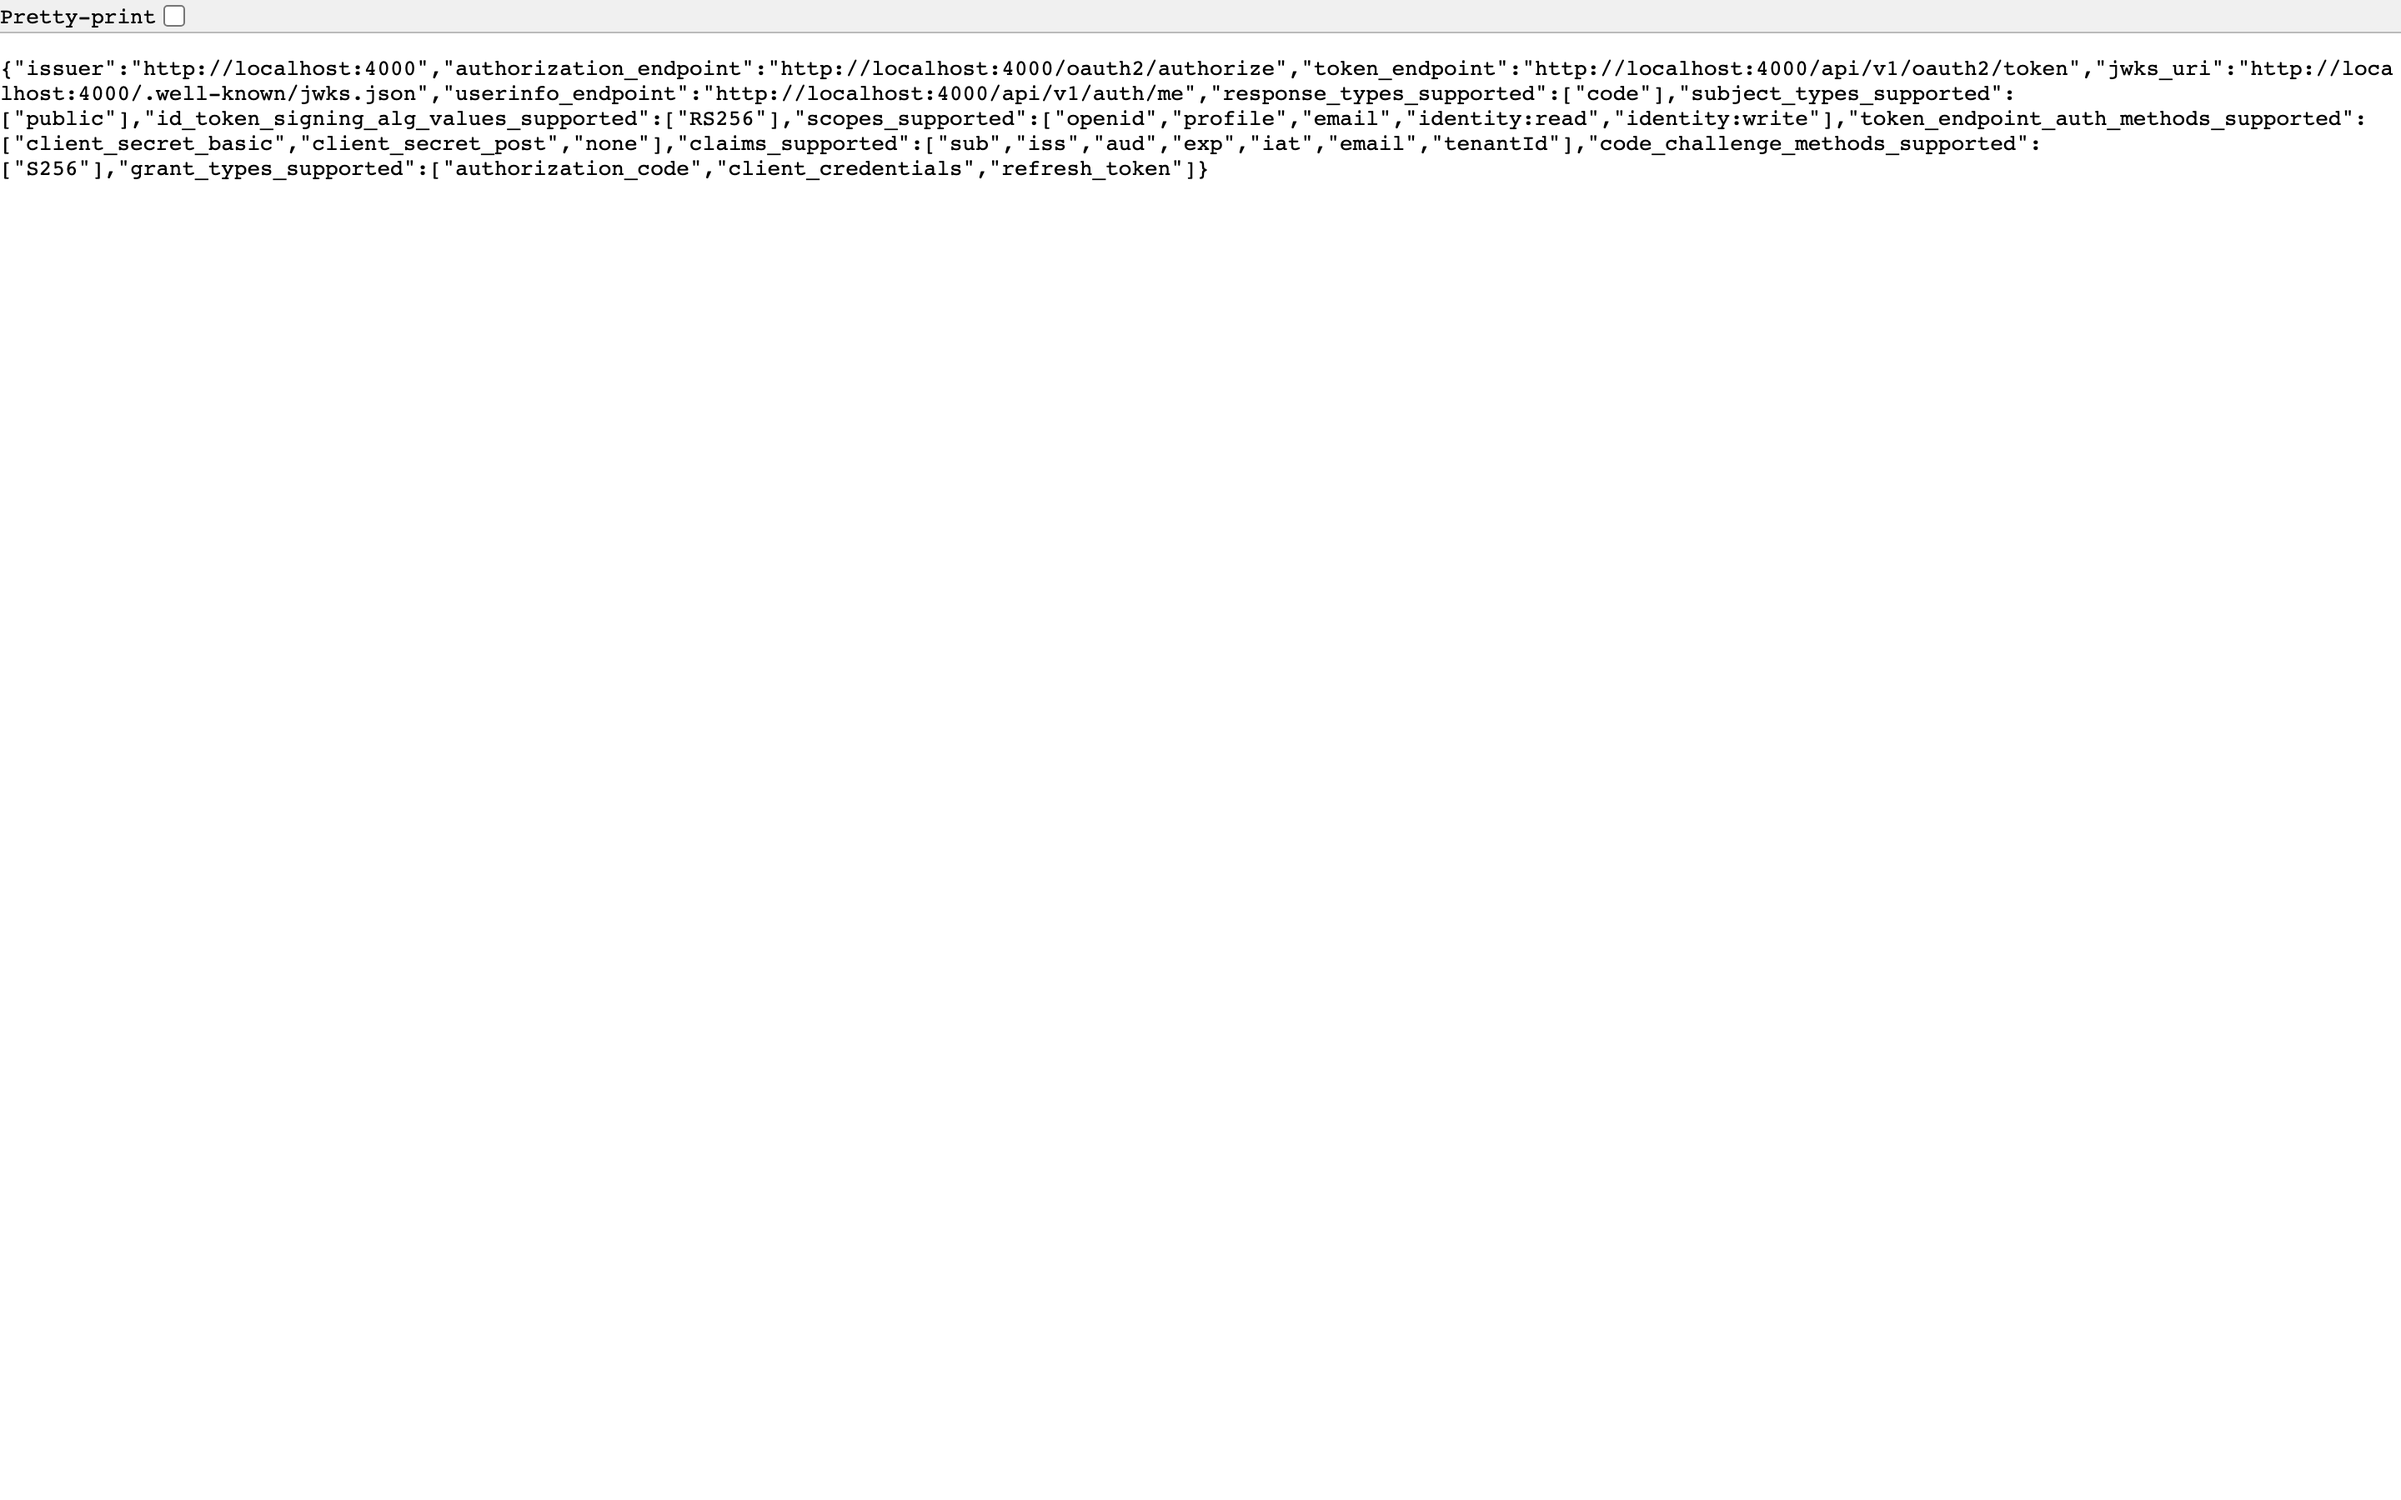
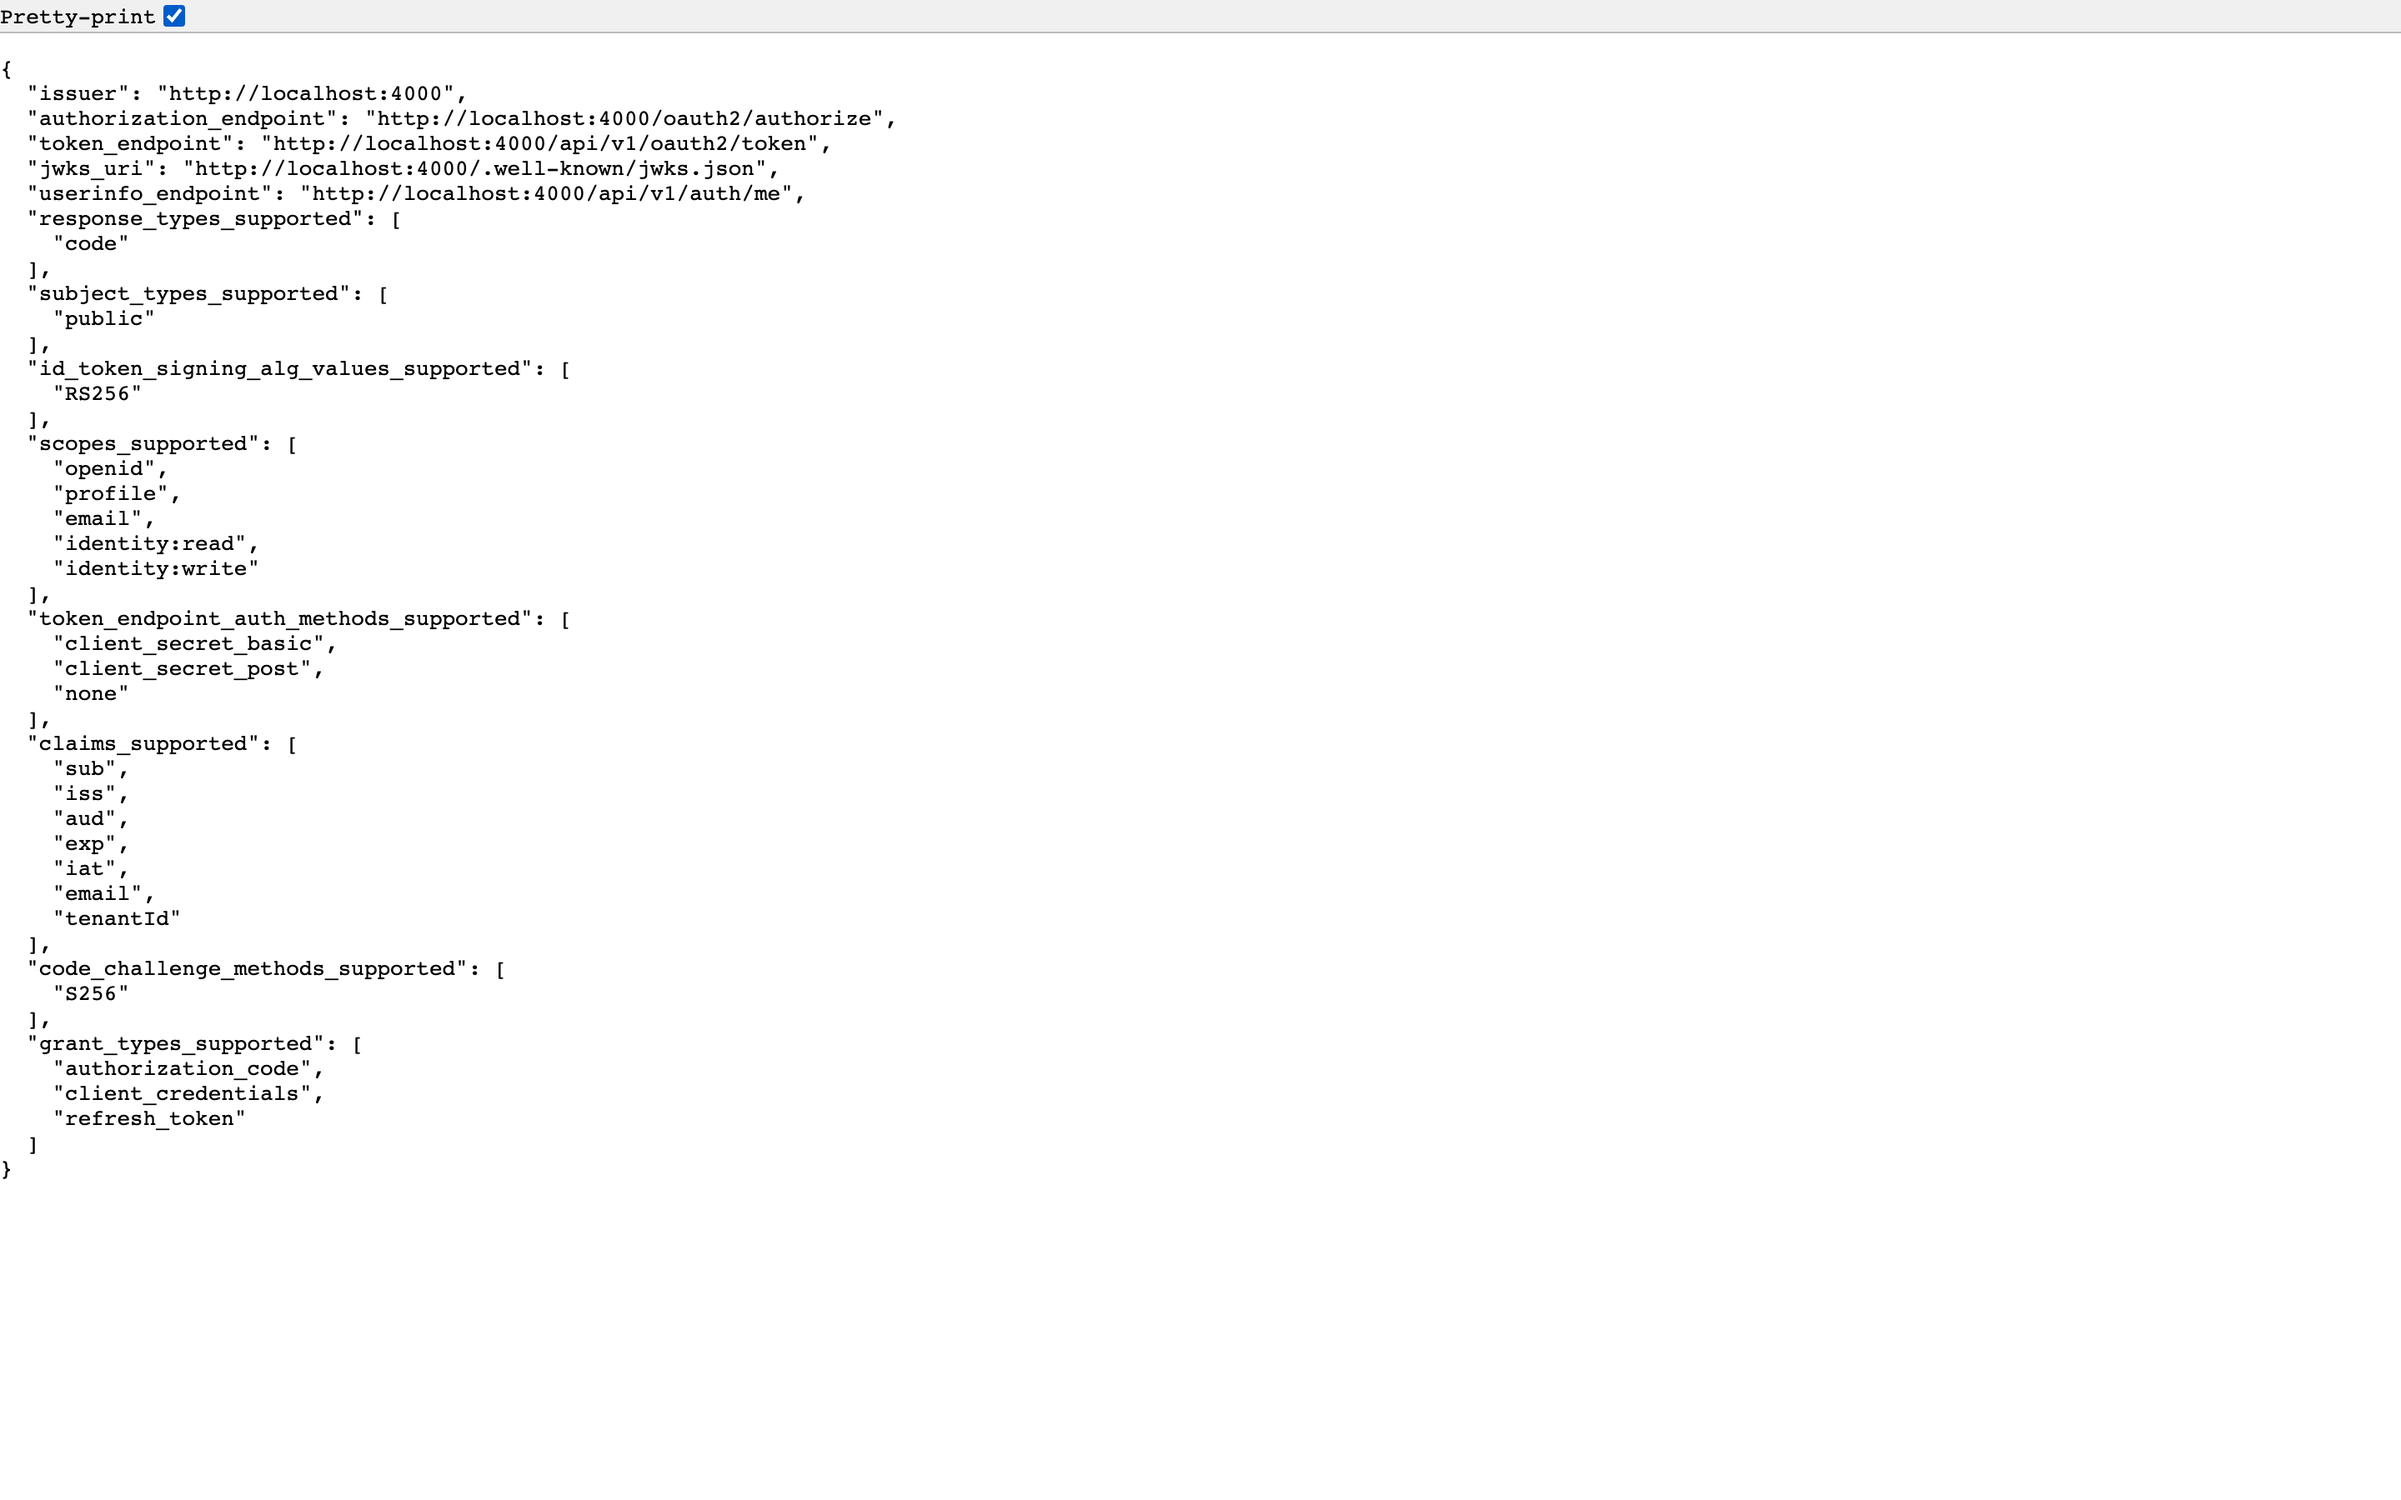
docs(showcase): re-capture us07_oidc_discovery.png with pretty-print enabled

diff --git a/scripts/capture-showcase.ts b/scripts/capture-showcase.ts
@@ -63,7 +63,10 @@ async function runCapture() {
     // 4. US-07: OpenID Connect Discovery Metadata Endpoint
     console.log('📸 Capturing us07_oidc_discovery.png from http://localhost:4000/.well-known/openid-configuration...');
     await page.goto('http://localhost:4000/.well-known/openid-configuration', { waitUntil: 'networkidle', timeout: 10000 });
-    await page.waitForTimeout(500);
+    await page.waitForTimeout(300);
+    // Toggle Chromium built-in JSON viewer "Pretty-print" checkbox (closed Shadow DOM at top-left)
+    await page.mouse.click(105, 12);
+    await page.waitForTimeout(300);
     await page.screenshot({
       path: path.join(SCREENSHOT_DIR, 'us07_oidc_discovery.png'),
       fullPage: false,
